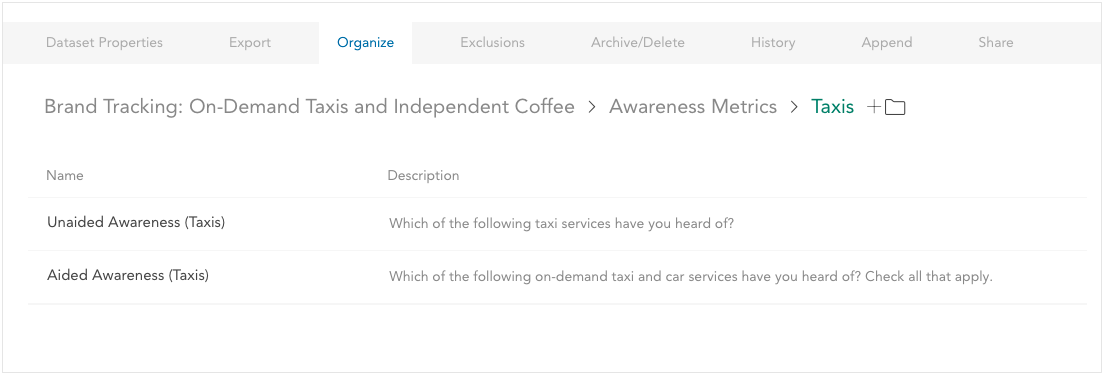
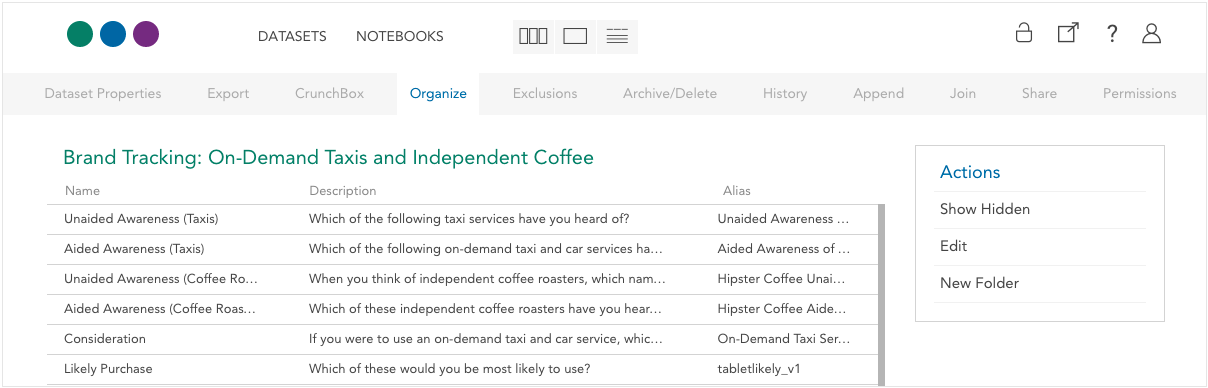
Docs for organizer updates

diff --git a/_includes/custom/organizing-variables.md b/_includes/custom/organizing-variables.md
@@ -1,31 +1,46 @@
+The variable organizer allows dataset editors to sort variables into groups and determine the order in which they will appear in the sidebar. It can also be used to quickly edit variable names, descriptions, and aliases.
+
 Open the variable organizer by clicking the dataset name in the upper left and then selecting the **Organize** tab.
 
 ![](images/OrganizeVariables.png)
 
-The variable organizer allows a dataset editor to quickly edit variable names and descriptions and manage how they will appear in the sidebar by sorting them and arranging them into groups.
+Variables are listed in their current order, along with their descriptions and aliases.
 
-#### Editing variable names and descriptions
+On the right side of the interface, you'll see the **Actions** sidebar.
 
-![](images/OrganizerEditName.png)
+![](images/OrganizeActions.png)
 
-Click on a variable name or description to edit it. Use the tab key to cycle through the name and description fields.
+The options available in this sidebar depend on what mode you are in (**Edit** or **Arrange**) and whether you have any variables selected. See below for more information.
 
-#### Changing variable order
+### Changing variable order
 
 The order of variables in the list can be changed by dragging and dropping them. Select multiple variables at once using shift-click and command-click (Mac)/control-click (PC). Once a group of variables has been selected they can be dragged as a group.
 
-#### Creating and using folders
+### Creating and using folders
+
+Create a folder by clicking **Add Folder** in the **Actions** sidebar. This opens the **New folder name** dialog, where you can give the folder a name.
 
 ![](images/AddFolder.png)
 
-Create a folder by clicking the add folder icon. You can drag and drop variables into the folder to move them. Click the folder name to rename it. Click the folder icon to open the folder and view and organize its contents.
+The new folder will appear at the top of the variable list. You can drag and drop variables into the folder to move them. Click the folder icon to open the folder and view and organize its contents.
 
-When a folder is open, the path to that folder is shown at the top of the interface. Drag variables from the list to a location on the path to move them up in the hierarchy. Click on a location on the path to navigate to it directly.
+When a folder is open, the path to that folder is shown at the top of the interface.
 
-#### Hiding, unhiding, and deleting variables
+![](images/OrganizeBreadcrumbs.png)
 
-![](images/HideVariable.png)
+Drag variables to a location on the path to move them up in the hierarchy. Click on a location on the path to navigate to it directly.
 
-When a variable is selected, commands that can be applied to that variable will appear above the list. Click **Hide** to hide a variable and **Unhide** to show it again. Hidden variables cannot be seen in Browse or Analyze mode, but any variables derived from it will be unaffected.
+### Editing variable and folder names, descriptions, and aliases
 
-You can permanently delete a variable by clicking **Delete**. Note that deleting a variable will affect filters, analyses and other variables derived from that variable.
+To edit variable and folder names, descriptions, and aliases, click **Edit** in the **Actions** sidebar. This puts the interface into **Edit** mode. While in edit mode:
+
+* You can click any variable or folder name, description, or alias to edit it. You can use **Tab** to move to the next field or **Enter** to move to the next row (i.e. if you are editing a description you'll move to the next description).
+* You cannot arrange variables or put them into folders. If you need to arrange variables, click **Arrange** in the **Actions** sidebar to return to **Arrange** mode.
+
+### Hiding, unhiding, and deleting variables
+
+Hidden variables do not appear in the sidebar, but any variables derived from them will be unaffected. Deleted variables are permanently removed from the dataset; any filters, analyses, or other variables derived from a deleted variable may be removed as a result.
+
+When a variable or variables are selected, actions that can be performed on them will appear at the bottom of the **Actions** sidebar. Click **Hide** to hide a variable (or group of selected variables). Once hidden, the variable will disappear. You can view hidden variables in the Organize interface by toggling on **Show Hidden** in the **Actions** sidebar, and then unhide them by selecting them and selecting **Unhide**. 
+
+Permanently delete a variable by clicking **Delete**.
